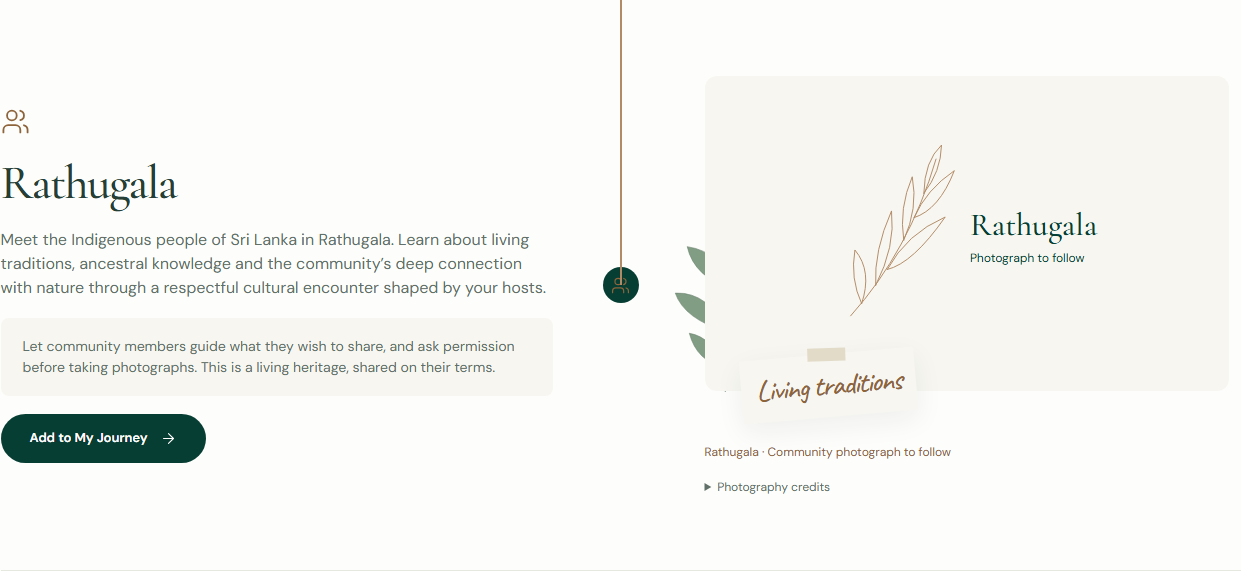
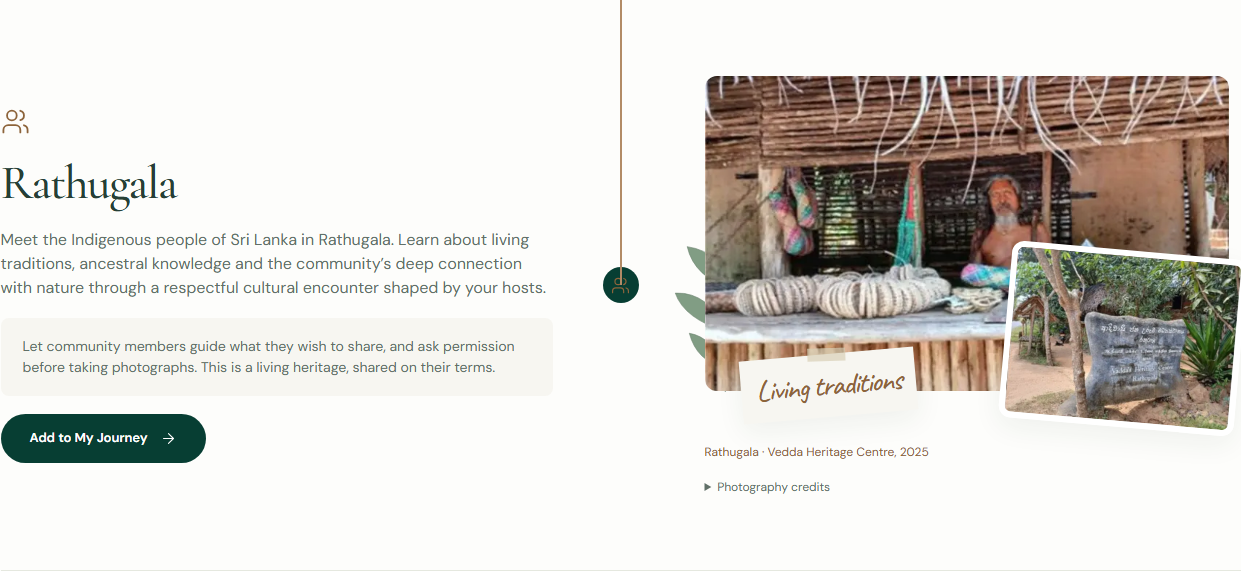
Replace Rathugala placeholder with verified CC BY Heritage Centre photographs

Changed region(s): [[0.5512, 0.1191, 1.0, 0.7741], [0.6124, 0.7741, 0.7655, 0.8039]]

diff --git a/tests/e2e/immersive.spec.ts b/tests/e2e/immersive.spec.ts
@@ -412,16 +412,10 @@ test("documentary collages expose image credits and preserve frame proportions",
   await page.goto("/experiences/");
   const collages = page.locator(".experience-collage");
   await expect(collages).toHaveCount(10);
+  await expect(
+    page.getByText("Photograph to follow", { exact: true }),
+  ).toHaveCount(0);
   for (const collage of await collages.all()) {
-    const placeholder = await collage
-      .locator(".experience-photo-placeholder")
-      .count();
-    if (placeholder) {
-      await expect(collage).toContainText("Photograph to follow");
-      await collage.getByText("Photography credits", { exact: true }).click();
-      await expect(collage).toContainText("No community photograph is shown.");
-      continue;
-    }
     const photos = collage.locator("img:not([aria-hidden])");
     await expect(photos).toHaveCount(2);
     for (const photo of await photos.all()) {
@@ -436,7 +430,7 @@ test("documentary collages expose image credits and preserve frame proportions",
     await expect(collage.locator(".photo-credits li")).toHaveCount(2);
     await expect(
       collage.locator(
-        '.photo-credits a[href*="commons.wikimedia.org"], .photo-credits a[href*="pexels.com/photo/"]',
+        '.photo-credits a[href*="commons.wikimedia.org"], .photo-credits a[href*="pexels.com/photo/"], .photo-credits a[href*="preprints.org/manuscript/"]',
       ),
     ).toHaveCount(2);
   }

diff --git a/src/styles/experience-journey.css b/src/styles/experience-journey.css
@@ -99,30 +99,6 @@
   font-size: 12px;
   line-height: 1.6;
 }
-.experience-photo-placeholder {
-  aspect-ratio: 5 / 3;
-  background: var(--ivory);
-  display: flex;
-  align-items: center;
-  justify-content: center;
-  gap: 12px;
-  padding: 18px;
-}
-.experience-photo-placeholder img {
-  width: 25%;
-  height: 100%;
-  object-fit: contain;
-}
-.experience-photo-placeholder span {
-  color: var(--green);
-  font-family: var(--font-display);
-  font-size: clamp(16px, 2.5vw, 32px);
-}
-.experience-photo-placeholder small {
-  display: block;
-  font-family: var(--font-body);
-  font-size: 12px;
-}
 .photo-credits a {
   text-decoration: underline;
   text-underline-offset: 3px;
@@ -380,10 +356,6 @@
   }
   .experience-collage .editorial-photo-main {
     border-radius: 8px;
-  }
-  .experience-photo-placeholder {
-    padding: 10px 6px;
-    gap: 4px;
   }
   .experience-collage .editorial-photo-inset {
     position: relative;

diff --git a/src/data/experience-media.ts b/src/data/experience-media.ts
@@ -5,7 +5,6 @@ export const experienceMedia: Record<
     caption: string;
     alt: string;
     insetAlt: string;
-    placeholder?: boolean;
   }
 > = {
   wildlife: {
@@ -67,9 +66,9 @@ export const experienceMedia: Record<
   },
   rathugala: {
     note: "Living traditions",
-    caption: "Rathugala · Community photograph to follow",
-    alt: "",
-    insetAlt: "",
-    placeholder: true,
+    caption: "Rathugala · Vedda Heritage Centre, 2025",
+    alt: "A community member with woven baskets at Rathugala’s Vedda Heritage Centre",
+    insetAlt:
+      "The stone entrance sign and wooded grounds of the Vedda Heritage Centre in Rathugala",
   },
 };

diff --git a/docs/november-updates/README.md b/docs/november-updates/README.md
@@ -16,7 +16,7 @@ The existing Astro components, forest green and bronze palette, typefaces, alter
 
 ## Photography sources and licensing
 
-Verified against the original source and licence pages on 17 November 2026. Every photograph is hosted locally; no external image requests are needed. Machine-readable creator, source, licence, location evidence, modification and hash records are in `assets/source/experience-update-sources.json` and the published `experience-updates/manifest.json`.
+Verified against the original source and licence pages on 17–18 November 2026. Every photograph is hosted locally; no external image requests are needed. Machine-readable creator, source, licence, location evidence, modification and hash records are in `assets/source/experience-update-sources.json` and the published `experience-updates/manifest.json`.
 
 | Use | Photograph and creator | Licence and location evidence |
 | --- | --- | --- |
@@ -27,14 +27,15 @@ Verified against the original source and licence pages on 17 November 2026. Ever
 | Upper Diyaluma inset | [Upper diyaluma falls.jpg](https://commons.wikimedia.org/wiki/File:Upper_diyaluma_falls.jpg) — Venushka Fonseka | [CC BY-SA 4.0](https://creativecommons.org/licenses/by-sa/4.0/). Source identifies the waterfall’s edge. |
 | Gal Oya main | [Senanayake Samudraya (Gal Oya).jpg](https://commons.wikimedia.org/wiki/File:Senanayake_Samudraya_(Gal_Oya).jpg) — AntanO | [CC BY-SA 4.0](https://creativecommons.org/licenses/by-sa/4.0/). Source identifies Senanayake Samudraya, Gal Oya National Park. |
 | Gal Oya inset | [Gal Oya National Park (Senanayake Samudhraya).JPG](https://commons.wikimedia.org/wiki/File:Gal_Oya_National_Park_(Senanayake_Samudhraya).JPG) — AntanO | [CC BY-SA 4.0](https://creativecommons.org/licenses/by-sa/4.0/). Source identifies the park near the reservoir. |
+| Rathugala main and inset | [Rathugala Heritage Centre — First Voices (2025)](https://www.preprints.org/manuscript/202505.0239/v1) — Mudalige et al., photograph credited to the authors | [CC BY 4.0](https://creativecommons.org/licenses/by/4.0/). Publisher caption identifies Rathugala's Vedda Heritage Centre, 2025; the entrance sign confirms the location. The two panels show a community member with woven baskets and the entrance. The individual photographer is not specified. |
 
-All Commons derivatives retain their source licence. The existing “Photography credits” disclosures include source links, creator names, licence links and change notices. Photos are cropped, resized and compressed as WebP; the sideways Diyaluma inset is also rotated upright. No generative imagery is used for the new location photographs. Main variants are 360/720/960 px, insets 320/640 px. The new experience image inventory totals 877,344 bytes across all variants.
+All Commons derivatives retain their source licence. The existing “Photography credits” disclosures include source links, creator names, licence links and change notices. Photos are cropped, resized and compressed as WebP; the sideways Diyaluma inset is also rotated upright. The two Rathugala panels are extracted separately and their decorative source borders removed; no people or objects are generated. Main variants are 360/720/960 px, insets 320/640 px. The completed new experience image inventory totals 1,033,050 bytes across all variants.
 
-**Rathugala asset outstanding:** searches of Commons, Flickr, Pexels and Unsplash, plus location-specific editorial sources, did not establish a suitable accurately identified photograph with commercial reuse permission. [Explore Sri Lanka’s location-specific photographs](https://exploresrilanka.lk/forest-dwellers-of-rathugala/) have named photographers but no verified commercial reuse grant; the [Nyéléni Rathugala visit page](https://nyeleni.lk/site-visits-rathugala/) likewise did not provide an explicit usable photography licence. Neither was downloaded. Generic Vedda, farming and other-location portraits were rejected. An existing botanical illustration is clearly labelled “Photograph to follow”; its disclosure explicitly says no community photograph is shown. Replace it only with a licensed, respectfully sourced Rathugala photograph.
+**Rathugala asset resolved:** the initial delivery used a labelled placeholder while an accurately identified, commercially reusable photograph was unavailable. Generic Vedda, farming and other-location portraits were rejected. The placeholder has now been replaced with the licensed Heritage Centre photographs above, preserving the established main/inset layout.
 
 User-supplied tour, owner and gallery media are recorded as supplied assets rather than independently verified documentary location photography. No new specific location is asserted for the elephant photograph or crocodile video.
 
-Final Rathugala search on 18 November found a promising accurately captioned **Heritage Centre photograph**, credited to the authors of [Mudalige et al., First Voices (2025), DOI 10.20944/preprints202505.0239.v1](https://www.preprints.org/manuscript/202505.0239/v1). The publisher identifies it as Rathugala, 2025 and applies [CC BY 4.0](https://creativecommons.org/licenses/by/4.0/) to the article. However, the publisher returned HTTP 403 for the image and PDF downloads, including browser retrieval. The image could not be downloaded or visually verified, so it has **not** been incorporated. This is a candidate for follow-up, not a claim that the missing asset is resolved. The placeholder remains clearly labelled.
+The publisher's current image URL returned HTTP 403. The original image was successfully retrieved from the [Internet Archive's 31 October 2025 capture](https://web.archive.org/web/20251031004945/https://www.preprints.org/frontend/picture/ms_xml/manuscript/763b8e5acd0c3746904a9a30a642f6a9/preprints-158279-g001.png), visually verified and retained locally. Retrieval provenance and crop coordinates are recorded in the source manifest. The photographs document the Centre in 2025; they do not imply an endorsement, affiliation or guaranteed encounter with a pictured individual. The source is credited for photography, not used to make medical claims on the travel website.
 
 ## Reproduction and checks
 
@@ -51,10 +52,10 @@ The existing guest-watermark preparation reuses the shared watermark helper and 
 
 Build from the real workspace path when this Windows checkout is opened through the Desktop junction. Building through that junction was observed to omit CSS links in Astro 7.4.5; a real-path build restores them. `validate-build.mjs` now explicitly rejects production pages with missing stylesheet links or missing local CSS files. No framework or hosting identity change was made to work around this local issue.
 
-The existing HTML, JavaScript, stylesheet and original media budgets remain enforced. New collections have separate explicit inventory caps: 1 MB experience photos, 1.3 MB supplied tour/owner photos, 600 KB gallery photo/poster and 1.5 MB gallery video. Search avoids repeating visible descriptions in hidden search attributes and uses concise excerpts for the additions.
+The existing HTML, JavaScript, stylesheet and original media budgets remain enforced. New collections have separate explicit inventory caps: 1.2 MB experience photos, 1.3 MB supplied tour/owner photos, 600 KB gallery photo/poster and 1.5 MB gallery video. The experience inventory cap was increased from 1 MB to accommodate the two additional Rathugala photo placements; their five responsive variants add 155,706 bytes. Search avoids repeating visible descriptions in hidden search attributes and uses concise excerpts for the additions.
 
 Final test counts, measurements and Git verification are recorded in `validation.md` after the final checks. Screenshots are in `after/`; measurements include desktop, tablet and phone widths. Existing baseline measurements from the initial workspace are preserved in `before-measurements.json`.
 
 ## Remaining launch review
 
-Rathugala photography, client acceptance and real-device media playback review remain human requirements. Preview pages remain `noindex, nofollow`. Existing launch requirements for verified testimonials, contact details, booking policies and production-domain approval remain applicable; this update does not approve a public launch or claim that suggested services have been booked.
+Client acceptance and real-device media playback review remain human requirements. Preview pages remain `noindex, nofollow`. Existing launch requirements for verified testimonials, contact details, booking policies and production-domain approval remain applicable; this update does not approve a public launch or claim that suggested services have been booked.

diff --git a/docs/november-updates/validation.md b/docs/november-updates/validation.md
@@ -14,9 +14,9 @@ All six Firefox attempts failed at browserContext.newPage with Target crashed, b
 
 ## Final measurements
 
-The existing per-route caps remain 6,000 bytes gzip JavaScript, 16,000 bytes gzip CSS and 15,000 bytes gzip HTML. Largest measured route JavaScript: **5992 bytes gzip**; largest route CSS: **15906 bytes gzip**; largest HTML document: **14987 bytes gzip**. These are transfer estimates, not claims about host compression.
+The existing per-route caps remain 6,000 bytes gzip JavaScript, 16,000 bytes gzip CSS and 15,000 bytes gzip HTML. Largest measured route JavaScript: **5992 bytes gzip**; largest route CSS: **15787 bytes gzip**; largest HTML document: **14987 bytes gzip**. These are transfer estimates, not claims about host compression.
 
-New experience variants: **877344 bytes**. Supplied tour/owner variants: **1219936 bytes**. Added gallery photo variants and poster: **332476 bytes**. Gallery video: **1352284 bytes**. All new collection caps pass. FFmpeg decoded the complete published video without errors.
+New experience variants: **1033050 bytes**. Supplied tour/owner variants: **1219936 bytes**. Added gallery photo variants and poster: **332476 bytes**. Gallery video: **1352284 bytes**. All new collection caps pass. FFmpeg decoded the complete published video without errors.
 
 At 1440, 768, 390 and 320 px, Experiences has ten sections with unchanged 5:3 main-image proportions, no horizontal document overflow and no broken images. Itineraries, About Us and Gallery were also measured at 1440, 768 and 390 px with no overflow or broken images. Final screenshots and machine-readable geometry are in after/. Client acceptance and real-device review are not automated assertions.
 
@@ -28,4 +28,12 @@ The Windows Lighthouse CLI wrote one complete mobile Experiences report, then st
 | --- | --- | ---: | ---: | ---: | ---: | ---: | ---: |
 | /experiences/ | mobile | 89 | 100 | 100 | 69 | 3238 ms | 0 |
 
-See validation.json for exact browser-run statistics and Lighthouse findings, and build-metrics.json for the complete inventory. Rathugala photography and the existing business launch approvals remain outstanding as listed in README.md.
+See validation.json for exact browser-run statistics and Lighthouse findings, and build-metrics.json for the complete inventory. The existing business launch approvals remain outstanding as listed in README.md.
+
+## Rathugala photography follow-up
+
+The labelled placeholder has been replaced with two authentic views of Rathugala’s Vedda Heritage Centre from the CC BY 4.0 photograph in Mudalige et al. (2025). The original file was recovered from the Internet Archive after publisher downloads returned HTTP 403. The author credit, original publication, licence, archival retrieval URL, crop coordinates and original-file hash are retained in the source and delivery manifests. The main and inset photographs use the existing frames and local responsive WebP assets.
+
+All **8 targeted browser checks passed** across desktop, tablet, mobile and small-mobile profiles, covering all ten photographic collages, source/credit links, the five new planner interests and search. No test was skipped. Build, Astro checking (0 errors/warnings/hints), ESLint, formatting, all 16 unit tests, static SEO and build-budget checks passed again. Screenshots were refreshed at 1440, 768, 390 and 320 px; there are no broken images or document overflow.
+
+The five Rathugala variants add **155,706 bytes**, bringing the new-experience image inventory to **1,033,050 bytes**. Its explicit cap is now 1.2 MB to cover ten photo placements rather than eight. The original media and per-route HTML, CSS and JavaScript caps remain unchanged. This focused follow-up does not resolve or repeat the broader host/browser and Lighthouse limitations recorded above.
